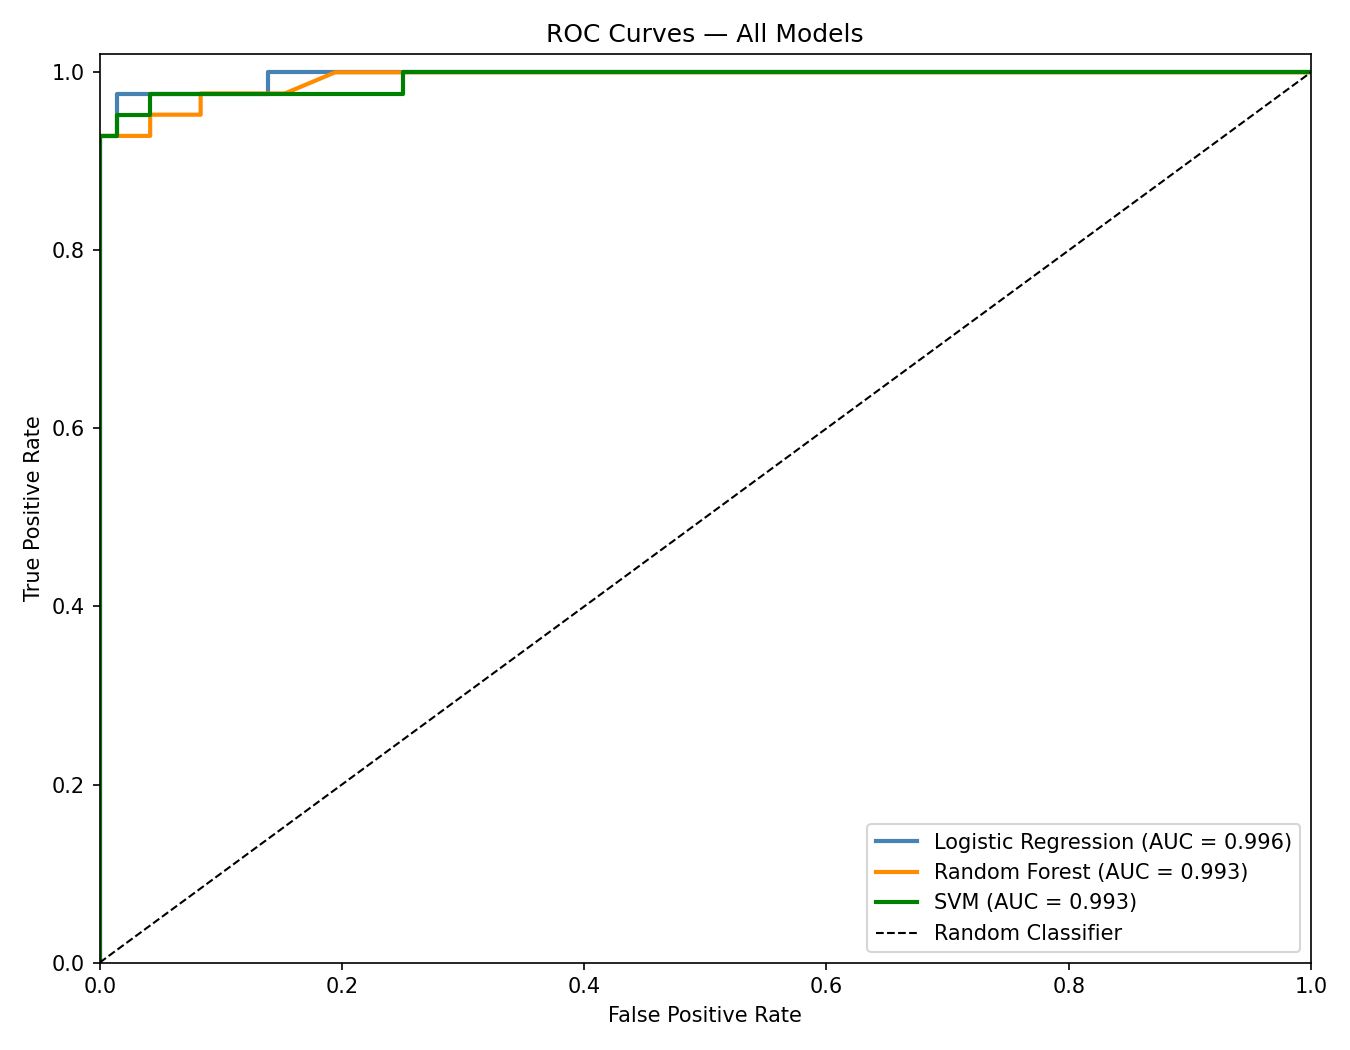
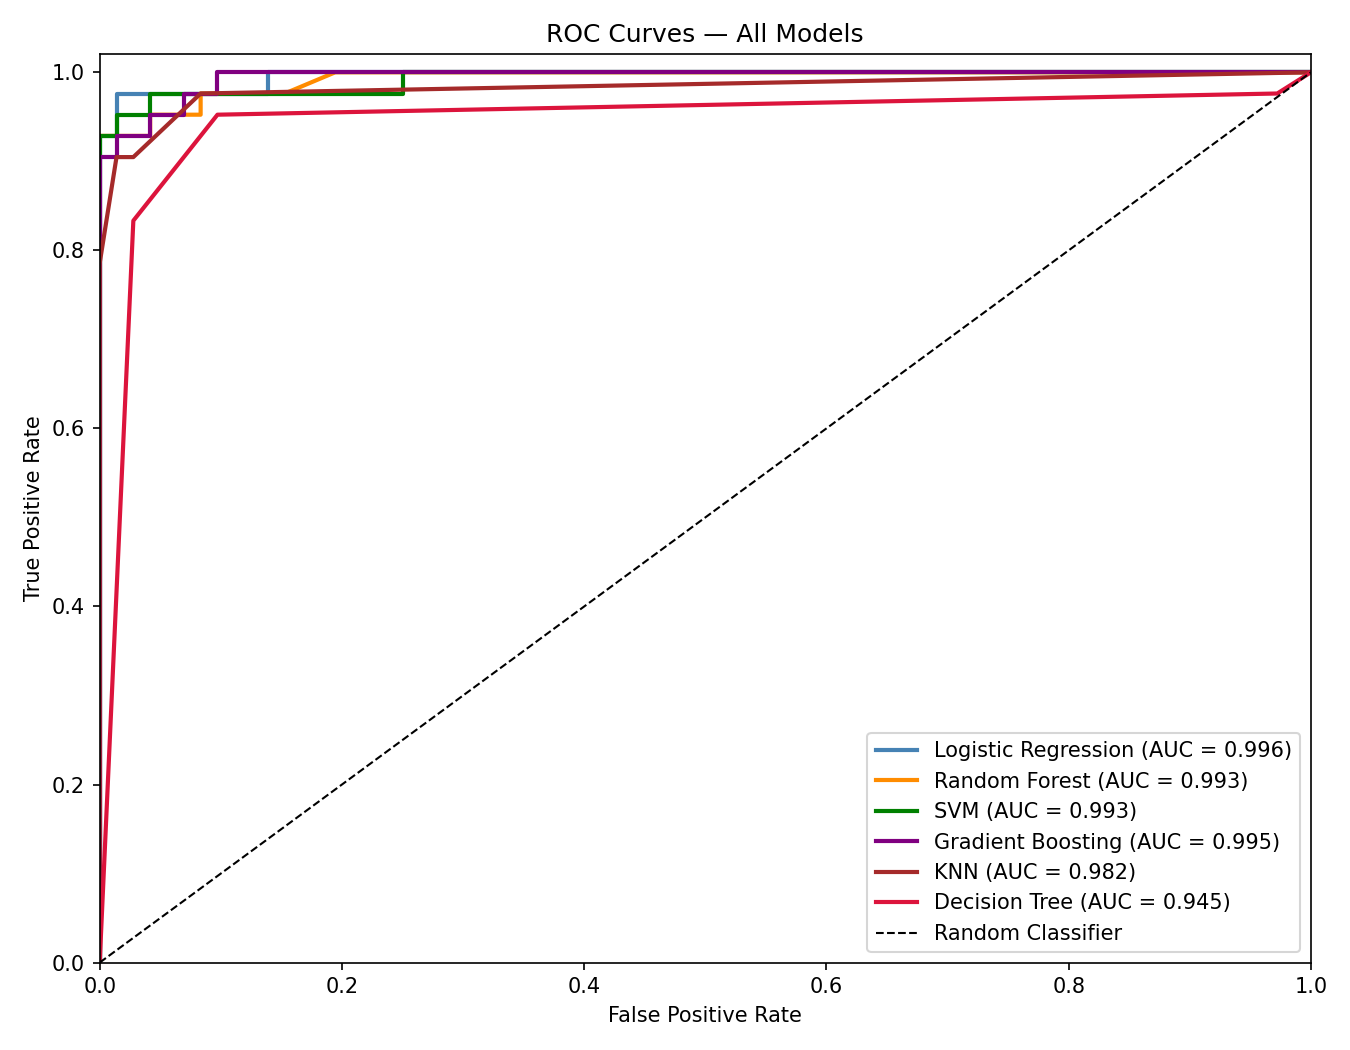
Added Gradient Boosting, KNN, and Decision Tree to the model suite alongside tuning Gradient Boosting via GridSearchCV, and added a CV recall bar chart to make cross-model comparisons easier to see.

Changed region(s): [[0.0622, 0.061, 0.9644, 0.3352], [0.6533, 0.701, 0.9644, 0.8838], [0.0622, 0.3657, 0.0933, 0.8838]]

diff --git a/main.py b/main.py
@@ -13,9 +13,12 @@ from sklearn.model_selection import (
     train_test_split, cross_val_score, StratifiedKFold, GridSearchCV
 )
 from sklearn.preprocessing import StandardScaler
+from sklearn.feature_selection import f_classif
 from sklearn.linear_model import LogisticRegression
-from sklearn.ensemble import RandomForestClassifier
+from sklearn.ensemble import RandomForestClassifier, GradientBoostingClassifier
 from sklearn.svm import SVC
+from sklearn.neighbors import KNeighborsClassifier
+from sklearn.tree import DecisionTreeClassifier
 from sklearn.metrics import (
     accuracy_score, precision_score, recall_score, f1_score,
     confusion_matrix, roc_curve, auc, classification_report
@@ -47,7 +50,7 @@ print(f"\nMissing values: {df.isnull().sum().sum()}") #dataset should be clean, 
 print("\nHead:")
 print(df.head())
 
-# data analysis before preprocessing
+# data analysis and visualization before preprocessing
 
 # encode labels: M=1 for malignant, B=0 for benign
 df['diagnosis'] = df['diagnosis'].map({'M': 1, 'B': 0})
@@ -72,7 +75,7 @@ X_test_scaled = scaler.transform(X_test)
 
 # train and evaluate multiple models (with hyperparameter tuning for main ones)
 
-# hyperparameter tuning via GridSearchCV (on training set) ---
+# --- 4a. Hyperparameter tuning via GridSearchCV (on training set) ---
 cv = StratifiedKFold(n_splits=5, shuffle=True, random_state=42)
 
 print("\n=== Hyperparameter Tuning (GridSearchCV, 5-fold CV) ===")
@@ -96,22 +99,35 @@ svm_grid = GridSearchCV(SVC(kernel='rbf', probability=True, random_state=42),
 svm_grid.fit(X_train_scaled, y_train)
 print(f"  SVM best params                : {svm_grid.best_params_}")
 
+gb_params = {'n_estimators': [100, 200], 'learning_rate': [0.05, 0.1],
+             'max_depth': [3, 5]}
+gb_grid = GridSearchCV(GradientBoostingClassifier(random_state=42),
+                       gb_params, cv=cv, scoring='recall', n_jobs=-1)
+gb_grid.fit(X_train_scaled, y_train)
+print(f"  Gradient Boosting best params  : {gb_grid.best_params_}")
 
-# all models
+# --- 4b. All models (tuned + additional) ---
 models = {
     'Logistic Regression': lr_grid.best_estimator_,
     'Random Forest':       rf_grid.best_estimator_,
     'SVM':                 svm_grid.best_estimator_,
+    'Gradient Boosting':   gb_grid.best_estimator_,
+    'KNN':                 KNeighborsClassifier(n_neighbors=5),
+    'Decision Tree':       DecisionTreeClassifier(max_depth=5, random_state=42),
 }
 
+# Fit models not yet fit (KNN, DT)
+for name in ['KNN', 'Decision Tree']:
+    models[name].fit(X_train_scaled, y_train)
 
 results = {}
 for name, model in models.items():
     y_pred = model.predict(X_test_scaled)
     y_prob = model.predict_proba(X_test_scaled)[:, 1]
     fpr, tpr, _ = roc_curve(y_test, y_prob)
-    # cross-validation on full scaled data
-    cv_scores = cross_val_score(model, X_train_scaled, y_train, cv=cv, scoring='recall')
+    # 5-fold cross-validation on full scaled data
+    cv_scores = cross_val_score(model, X_train_scaled, y_train,
+                                cv=cv, scoring='recall')
     results[name] = {
         'model':     model,
         'y_pred':    y_pred,
@@ -129,7 +145,7 @@ for name, model in models.items():
 
 # evaluate all models
 
-print("\n=== Model Performance (Test Set + 5-Fold CV Recall) ===")
+print("\n Model Performance (Test Set + 5-Fold CV Recall)")
 print(f"{'Model':<22} {'Accuracy':>10} {'Precision':>10} {'Recall':>10} {'F1':>8} {'AUC':>8} {'CV Recall':>12}")
 print("-" * 84)
 for name, r in results.items():
@@ -164,6 +180,7 @@ for i, (name, r) in enumerate(results.items()):
 plt.tight_layout()
 plt.savefig('confusion_matrices.png', dpi=150)
 plt.show()
+print("Saved: confusion_matrices.png")
 
 # ROC curves — all models
 fig, ax = plt.subplots(figsize=(9, 7))
@@ -180,9 +197,26 @@ plt.savefig('roc_curves.png', dpi=150)
 plt.show()
 print("Saved: roc_curves.png")
 
+# Cross-validation recall comparison bar chart
+fig, ax = plt.subplots(figsize=(10, 5))
+names = list(results.keys())
+cv_means = [results[n]['cv_recall_mean'] for n in names]
+cv_stds  = [results[n]['cv_recall_std']  for n in names]
+bars = ax.bar(range(len(names)), cv_means, yerr=cv_stds, capsize=5,
+              color='steelblue', alpha=0.8)
+ax.set_ylim([0.85, 1.01])
+ax.set_ylabel('CV Recall (mean ± std)')
+ax.set_title('5-Fold Cross-Validation Recall — All Models')
+ax.set_xticks(range(len(names)))
+ax.set_xticklabels(names, rotation=15, ha='right')
+for bar, val in zip(bars, cv_means):
+    ax.text(bar.get_x() + bar.get_width()/2, bar.get_height() + 0.003,
+            f'{val:.3f}', ha='center', fontsize=9, fontweight='bold')
+plt.tight_layout()
+plt.savefig('cv_recall_comparison.png', dpi=150)
+plt.show()
 
 # random forest feature importance (only doing for RF since it's the most interpretable model and has built-in feature importance)
-
 rf_model = results['Random Forest']['model']
 importances = pd.Series(rf_model.feature_importances_, index=feature_names)
 top20 = importances.sort_values(ascending=False).head(20)
@@ -197,10 +231,9 @@ plt.show()
 print("Saved: feature_importance.png")
 
 #  summary statistics and insights
-
 # Best by CV recall (more reliable than single split)
 best_model_name = max(results, key=lambda n: results[n]['cv_recall_mean'])
-print(f"\n Best Model by CV Recall ")
+print(f"\n=== Best Model by CV Recall ===")
 print(f"  {best_model_name}")
 print(f"  Accuracy : {results[best_model_name]['accuracy']:.3f}")
 print(f"  Precision: {results[best_model_name]['precision']:.3f}")